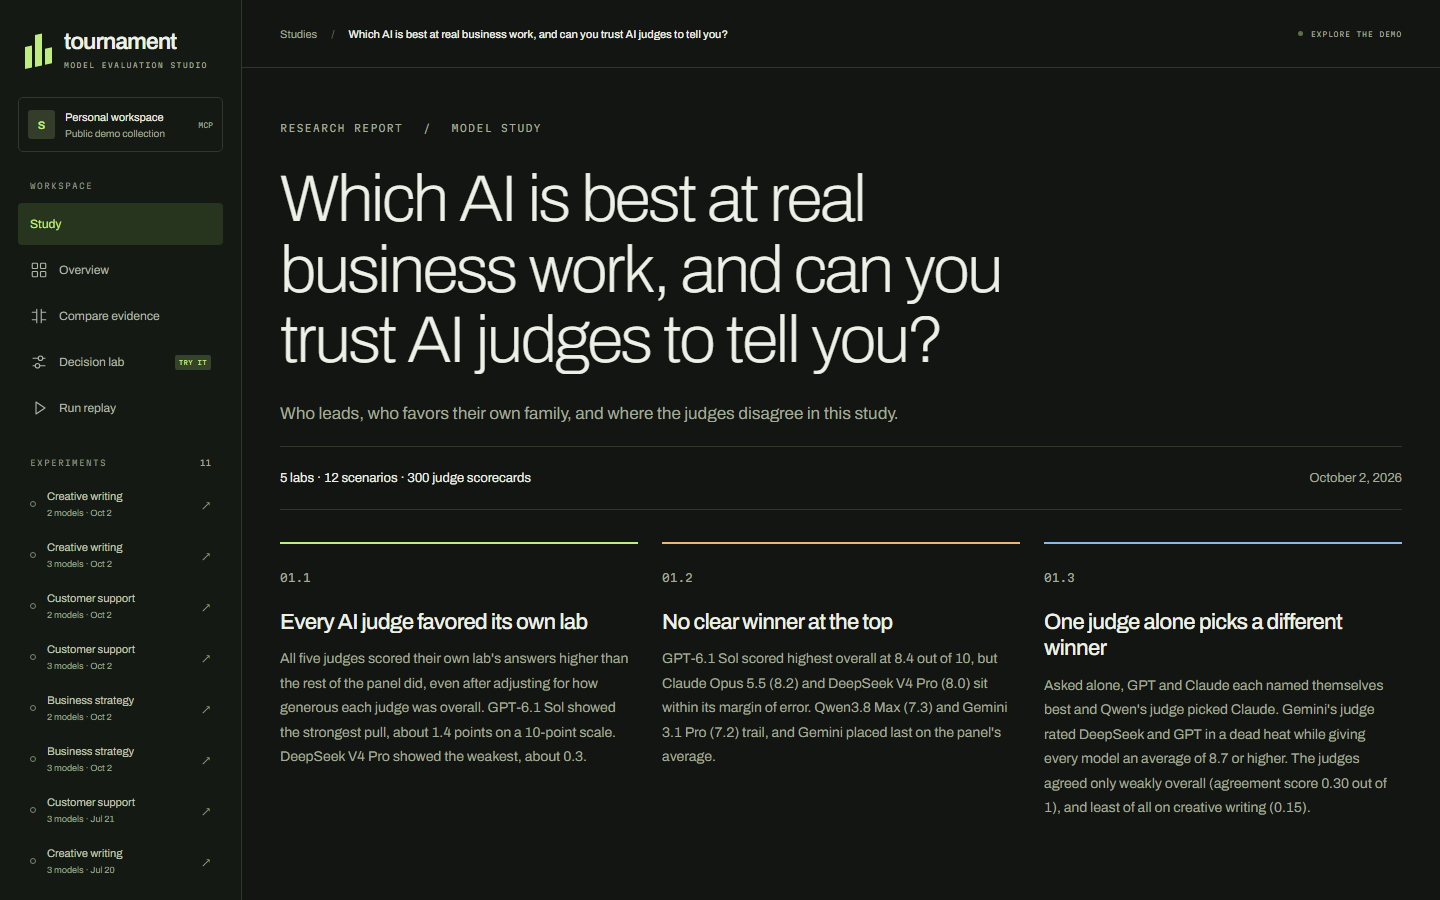
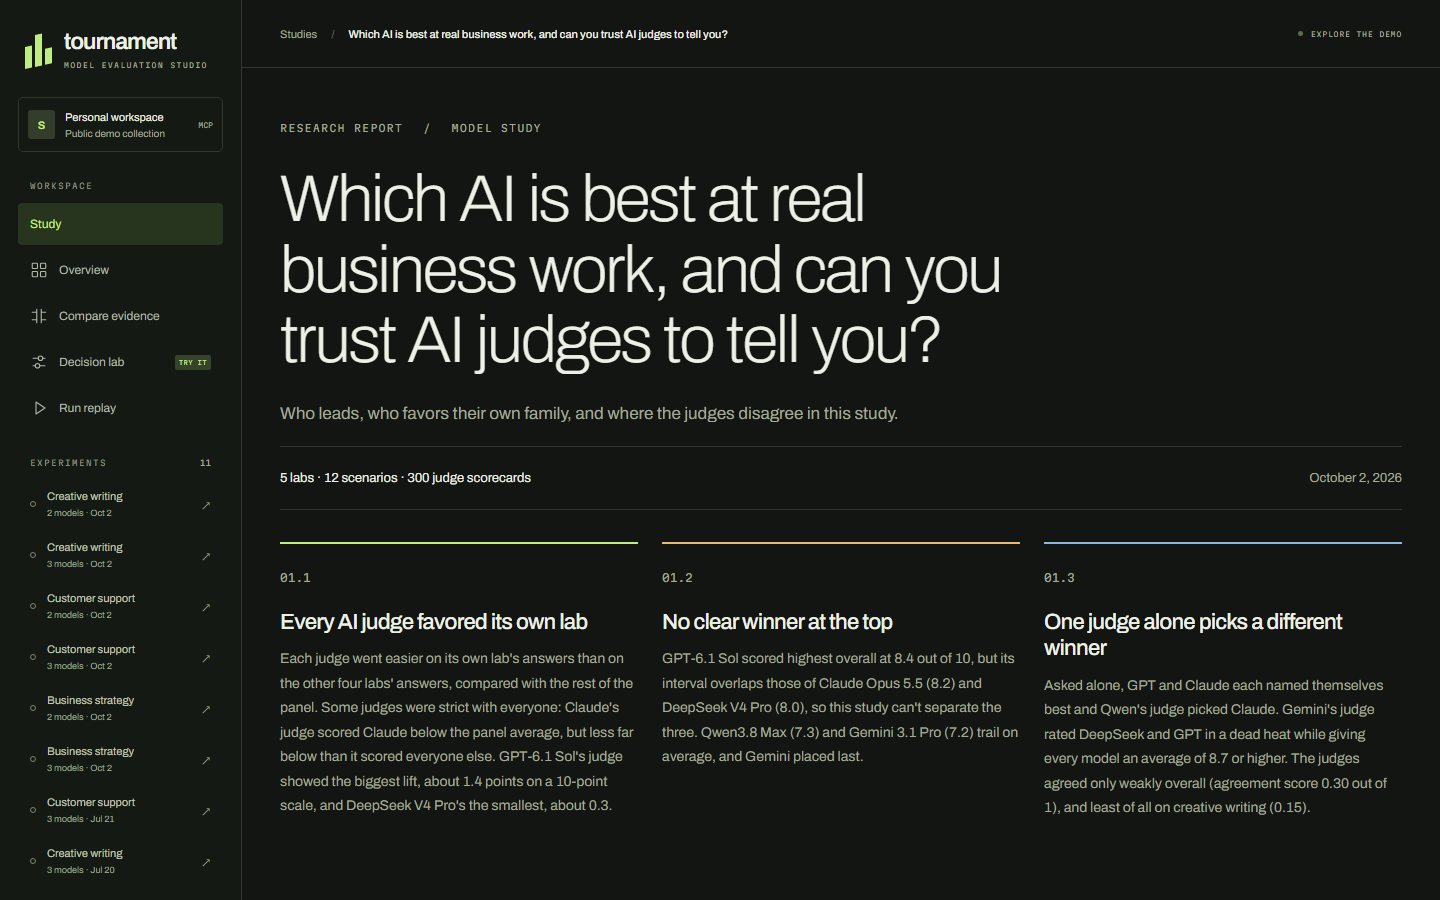
docs: state the self-preference and top-three findings precisely
Each judge favored its own lab relative to how it scored the others,
but not every judge scored its own lab above the panel: Claude's judge
was strict with everyone. Say that, and describe the top three as
overlapping intervals rather than a margin of error.

Changed region(s): [[0.1875, 0.7156, 0.4375, 0.9022], [0.4688, 0.7467, 0.7188, 0.8711]]

diff --git a/README.md b/README.md
@@ -6,7 +6,7 @@
 ![Node >= 20](https://img.shields.io/badge/Node-%3E%3D%2020-339933?logo=nodedotjs&logoColor=white)
 ![MCP server](https://img.shields.io/badge/MCP-server-5A67D8)
 
-**In this study, all five AI judges scored their own lab's answers higher than the rest of the panel did.** Five frontier models answered twelve business scenarios and then judged each other blind. **[Read the findings](https://mcp-tournament.pages.dev/#/study/flagship-2026-10)**.
+**In this study, all five AI judges went easier on their own lab's answers than on everyone else's.** Five frontier models answered twelve business scenarios and then judged each other blind. **[Read the findings](https://mcp-tournament.pages.dev/#/study/flagship-2026-10)**.
 
 Build a custom LLM benchmark in a form, run it from a local GUI, MCP client, or CLI, and turn independent judge opinions into ranked, auditable results.
 
@@ -27,12 +27,13 @@ each answered the same twelve scenarios across business strategy, customer
 support and creative writing. Every model then scored every answer, its own
 included, without seeing who wrote it: 300 scorecards in all.
 
-- **Every judge favored its own lab.** After adjusting for how generous each
-  judge was overall, all five scored their own family higher than the rest of
-  the panel did. The pull ranged from about 0.3 points (DeepSeek) to 1.4 points
-  (GPT) on a 10-point scale, and every 95% interval sits above zero.
-- **No clear winner at the top.** GPT-6.1 Sol led at 8.4, with Claude Opus 5.5
-  (8.2) and DeepSeek V4 Pro (8.0) inside its margin of error.
+- **Every judge favored its own lab.** Compared with the rest of the panel,
+  each judge scored its own lab's answers more generously than it scored the
+  other four labs. The lift ranged from about 0.3 points (DeepSeek) to 1.4
+  points (GPT) on a 10-point scale, and every 95% interval sits above zero.
+- **No clear winner at the top.** GPT-6.1 Sol led at 8.4, but its interval
+  overlaps those of Claude Opus 5.5 (8.2) and DeepSeek V4 Pro (8.0), so the
+  study can't separate the three.
 - **One judge alone picks a different winner.** GPT and Claude each named
   themselves best when judging alone, and the panel agreed only weakly overall
   (Krippendorff's alpha 0.30).
